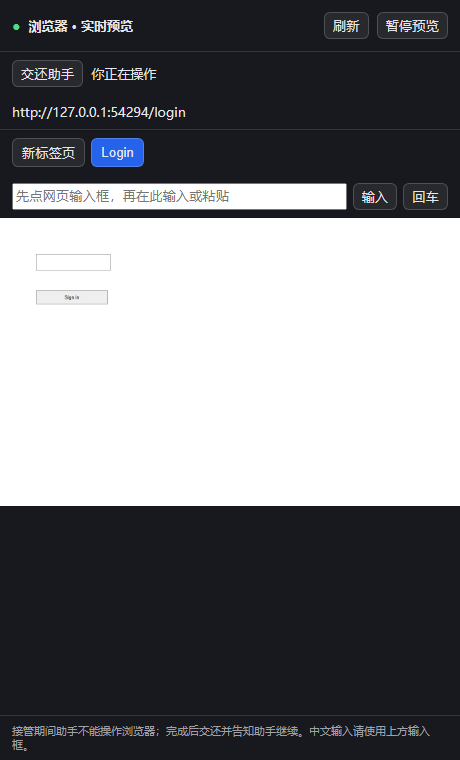
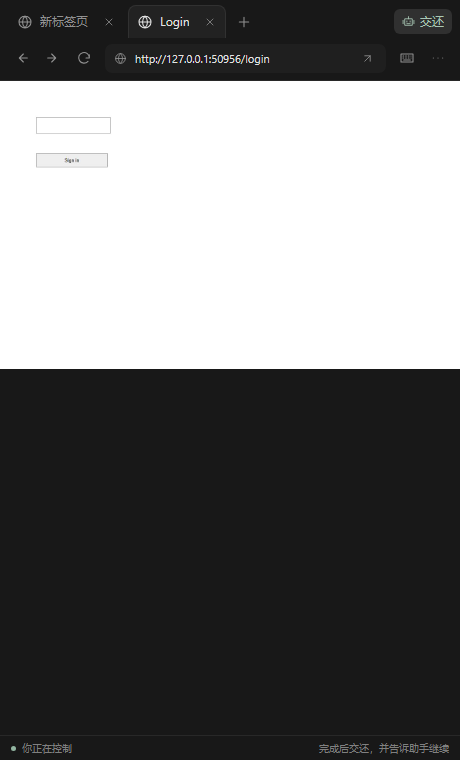
重做浏览器界面并增加地址栏与标签页导航

diff --git a/packages/browser/src/client/index.tsx b/packages/browser/src/client/index.tsx
@@ -3,21 +3,52 @@ import type { Context } from '@deepseek-ai/cordis'
 import type {} from '@deepseek-ai/dsh-client-ui-sidebar-right/client'
 import type {} from '@deepseek-ai/dsh-client-ui-renderer/client'
 import type { BrowserAction, BrowserFrame } from '../protocol.js'
+import { styles } from './style.js'
 
 export const inject = ['slots', 'sidebarRightTabs']
 const id = 'dsh-background-browser'
+const paths = {
+  globe: 'M21 12a9 9 0 1 1-18 0 9 9 0 0 1 18 0M3 12h18M12 3c5 5 5 13 0 18-5-5-5-13 0-18',
+  back: 'm14 6-6 6 6 6M8 12h12', forward: 'm10 6 6 6-6 6M4 12h12',
+  reload: 'M20 7v5h-5M20 12a8 8 0 1 0-2 5M20 7v5',
+  close: 'm6 6 12 12M6 18 18 6', plus: 'M12 5v14M5 12h14',
+  arrow: 'M7 17 17 7M7 7h10v10', more: 'M5 12h.01M12 12h.01M19 12h.01',
+  keyboard: 'M3 6h18v12H3zM6 9h1m3 0h1m3 0h1m3 0h.01M6 12h1m3 0h1m3 0h1m3 0h.01M7 15h10',
+  hand: 'M8 12V6a1.5 1.5 0 0 1 3 0v5-7a1.5 1.5 0 0 1 3 0v7-5a1.5 1.5 0 0 1 3 0v6-3a1.5 1.5 0 0 1 3 0v6c0 4-2 6-6 6h-1c-2 0-3-1-4-2l-5-6c-1-2 1-3 2-2l2 2',
+  bot: 'M5 7h14v12H5zM12 3v4M9 11v2m6-2v2M9 16h6M2 10v6m20-6v6',
+  expand: 'M8 3H3v5m13-5h5v5M3 16v5h5m13-5v5h-5',
+  pause: 'M8 5v14M16 5v14', play: 'm8 5 11 7-11 7z',
+  fit: 'M3 8V3h5m8 0h5v5M3 16v5h5m13-5v5h-5M8 12h8',
+} as const
+function Icon({ name }: { name: keyof typeof paths }) {
+  return <svg viewBox="0 0 24 24" fill="none" stroke="currentColor" strokeWidth="1.6" strokeLinecap="round" strokeLinejoin="round" aria-hidden="true"><path d={paths[name]} /></svg>
+}
 
 export function BrowserPanel({ browserSessionId }: { browserSessionId: string }) {
   const [input, setInput] = useState('')
   const [pending, setPending] = useState(0)
-  const tail = useRef(Promise.resolve())
-  const session = useRef(browserSessionId)
-  session.current = browserSessionId
   const [frame, setFrame] = useState<BrowserFrame>()
   const [error, setError] = useState('')
   const [paused, setPaused] = useState(false)
   const [refresh, setRefresh] = useState(0)
-  useEffect(() => { setFrame(undefined); setError(''); setInput('') }, [browserSessionId])
+  const [menu, setMenu] = useState(false)
+  const [inputOpen, setInputOpen] = useState(false)
+  const [originalSize, setOriginalSize] = useState(false)
+  const [address, setAddress] = useState('')
+  const [editingAddress, setEditingAddress] = useState(false)
+  const tail = useRef(Promise.resolve())
+  const session = useRef(browserSessionId)
+  const panel = useRef<HTMLElement>(null)
+  session.current = browserSessionId
+  const manual = frame?.manual === true
+  const active = frame?.tabs.find(tab => tab.index === frame.selected)
+  const blank = !active || active.url === 'about:blank'
+  const ready = frame?.status === 'ready'
+  useEffect(() => {
+    setFrame(undefined); setError(''); setInput(''); setInputOpen(false); setMenu(false); setAddress(''); setEditingAddress(false); setPaused(false)
+  }, [browserSessionId])
+  useEffect(() => { if (!editingAddress) setAddress(active?.url === 'about:blank' ? '' : active?.url ?? '') }, [active?.url, editingAddress])
+  useEffect(() => { if (!manual) { setInputOpen(false); setInput('') } }, [manual])
   useEffect(() => {
     if (paused) return
     const controller = new AbortController()
@@ -54,34 +85,57 @@ export function BrowserPanel({ browserSessionId }: { browserSessionId: string })
       if (session.current === owner) { setError(''); setRefresh(n => n + 1) }
     }).catch(error => { if (session.current === owner) setError(error.message) }).finally(() => setPending(n => n - 1))
   }
-  const manual = frame?.manual === true
-  const active = frame?.tabs.find(tab => tab.index === frame.selected)
-  return <section style={{ height: '100%', display: 'flex', flexDirection: 'column', background: 'var(--bg-primary, #17191e)', color: 'var(--text-primary, #e5e7eb)', font: '13px system-ui' }} aria-label="后台浏览器">
-    <header style={{ display: 'flex', gap: 8, alignItems: 'center', padding: 12, borderBottom: '1px solid #ffffff20' }}>
-      <span style={{ color: paused ? '#a1a1aa' : '#4ade80' }}>●</span>
-      <strong style={{ flex: 1 }}>浏览器 · {paused ? '预览已暂停' : '实时预览'}</strong>
-      <button type="button" onClick={() => setRefresh(value => value + 1)} disabled={paused} title="刷新画面">刷新</button>
-      <button type="button" disabled={manual} onClick={() => setPaused(value => !value)}>{paused ? '继续预览' : '暂停预览'}</button>
-    </header>
-    <div style={{ padding: '8px 12px' }}>
-      <button type="button" disabled={!frame?.image || pending > 0} onClick={() => { setPaused(false); send({ type: manual ? 'release' : 'take' }) }}>{manual ? '交还助手' : '接管浏览器'}</button>
-      <span style={{ marginLeft: 8 }}>{pending ? '操作中…' : manual ? '你正在操作' : '助手控制中'}</span>
+  const pageAction = (type: 'back' | 'forward' | 'reload') => { if (active) send({ type, pageId: active.id }) }
+  function navigate() {
+    if (!active || !address.trim()) return
+    const value = address.trim()
+    try {
+      const url = new URL(/^[a-z][a-z0-9+.-]*:/i.test(value) && !/^[^/]+:\d+(?:\/|$)/.test(value) ? value : `https://${value}`)
+      if (!['http:', 'https:'].includes(url.protocol)) throw new Error('请输入 http 或 https 网址')
+      send({ type: 'navigate', pageId: active.id, url: url.href })
+      setEditingAddress(false)
+    } catch { setError('请输入有效的网址，例如 https://example.com') }
+  }
+  return <section ref={panel} className="dsh-browser" aria-label="后台浏览器" onKeyDown={event => { if (event.key === 'Escape' && (menu || inputOpen)) { setMenu(false); setInputOpen(false); setInput(''); event.stopPropagation() } }}>
+    <style>{styles}</style>
+    <div className="bb-tabs">
+      <div className="bb-tablist" role="tablist" aria-label="网页标签页">
+        {frame?.tabs.length ? frame.tabs.map(tab => <div className={`bb-tab ${tab.index === frame.selected ? 'is-active' : ''}`} key={tab.id}>
+          <button className="bb-tab-select" role="tab" aria-selected={tab.index === frame.selected} disabled={!manual} title={tab.url} onClick={() => { setInputOpen(false); send({ type: 'tab', pageId: tab.id }) }}><Icon name="globe" /><span>{tab.title || '新标签页'}</span></button>
+          <button className="bb-icon" title="关闭标签页" aria-label={`关闭标签页：${tab.title || '新标签页'}`} disabled={!manual || pending > 0} onClick={() => send({ type: 'close', pageId: tab.id })}><Icon name="close" /></button>
+        </div>) : <div className="bb-tab is-active"><span className="bb-tab-select"><Icon name="globe" /><span>新标签页</span></span></div>}
+      </div>
+      <button className="bb-icon" title={manual ? '新建标签页' : '接管后可新建标签页'} aria-label="新建标签页" disabled={!manual || pending > 0} onClick={() => send({ type: 'new' })}><Icon name="plus" /></button>
+      <span className="bb-tabs-spacer" />
+      <button className={`bb-control ${manual ? 'is-manual' : ''}`} aria-label={manual ? '交还助手' : '接管浏览器'} title={manual ? '交还控制权，然后告诉助手继续' : '接管浏览器以登录或操作网页'} disabled={!ready || pending > 0} onClick={() => { setPaused(false); send({ type: manual ? 'release' : 'take' }) }}><Icon name={manual ? 'bot' : 'hand'} />{manual ? '交还' : '接管'}</button>
     </div>
-    <div style={{ padding: '9px 12px', overflow: 'hidden', textOverflow: 'ellipsis', whiteSpace: 'nowrap', borderBottom: '1px solid #ffffff20' }} title={active?.url}>
-      {active?.url ?? '等待当前会话使用浏览器'}
+    <div className="bb-toolbar">
+      <button className="bb-icon" title="后退" aria-label="后退" disabled={!manual || !active || pending > 0} onClick={() => pageAction('back')}><Icon name="back" /></button>
+      <button className="bb-icon" title="前进" aria-label="前进" disabled={!manual || !active || pending > 0} onClick={() => pageAction('forward')}><Icon name="forward" /></button>
+      <button className="bb-icon" title={manual ? '重新加载网页' : '刷新画面'} aria-label={manual ? '重新加载网页' : '刷新画面'} disabled={manual && (!active || pending > 0)} onClick={() => { if (manual) pageAction('reload'); else { setPaused(false); setRefresh(n => n + 1) } }}><Icon name="reload" /></button>
+      <form className="bb-address" onSubmit={event => { event.preventDefault(); navigate() }}>
+        <Icon name="globe" />
+        <input aria-label="网址" title={manual ? '输入网址并按回车' : '接管浏览器后可输入网址'} placeholder="输入网址" value={address} readOnly={!manual || !active} onFocus={event => { setEditingAddress(true); event.currentTarget.select() }} onBlur={event => { if (!(event.relatedTarget instanceof Node) || !event.currentTarget.parentElement?.contains(event.relatedTarget)) setEditingAddress(false) }} onChange={event => setAddress(event.target.value)} />
+        {manual && <button className="bb-icon" type="submit" aria-label="打开网址" title="打开网址" disabled={!active || !address.trim() || pending > 0}><Icon name="arrow" /></button>}
+      </form>
+      {manual && <button className="bb-icon" title="输入文本或密码" aria-label="输入文本或密码" aria-expanded={inputOpen} onClick={() => { setInputOpen(v => !v); setMenu(false); setInput('') }}><Icon name="keyboard" /></button>}
+      <button className="bb-icon" title="更多选项" aria-label="更多选项" aria-expanded={menu} onClick={() => { setMenu(v => !v); setInputOpen(false); setInput('') }}><Icon name="more" /></button>
     </div>
-    {!!frame?.tabs.length && <div style={{ display: 'flex', gap: 6, overflowX: 'auto', padding: '8px 12px' }}>
-      {frame.tabs.map(tab => <button type="button" disabled={!manual} onClick={() => send({ type: 'tab', pageId: tab.id })} key={tab.id} title={tab.url} style={{ padding: '5px 9px', borderRadius: 6, whiteSpace: 'nowrap', background: tab.index === frame.selected ? '#2563eb' : '#ffffff12' }}>{tab.title || '新标签页'}</button>)}
+    {menu && <div className="bb-menu" aria-label="浏览器选项">
+      <button disabled={manual} onClick={() => { setPaused(v => !v); setMenu(false) }}><Icon name={paused ? 'play' : 'pause'} />{paused ? '继续预览' : '暂停预览'}</button>
+      <button onClick={() => { setOriginalSize(v => !v); setMenu(false) }}><Icon name="fit" />{originalSize ? '适应面板宽度' : '网页原始大小'}</button>
+      <button onClick={() => { setMenu(false); const operation = document.fullscreenElement ? document.exitFullscreen() : panel.current?.requestFullscreen(); void operation?.catch(() => setError('当前宿主不支持全屏，请拖宽侧栏查看')) }}><Icon name="expand" />全屏查看</button>
     </div>}
-    {manual && <form style={{ display: 'flex', gap: 6, padding: '8px 12px' }} onSubmit={event => { event.preventDefault(); if (active && input) { send({ type: 'text', pageId: active.id, text: input }); setInput('') } }}>
-      <input type="password" autoComplete="off" aria-label="输入到网页" placeholder="先点网页输入框，再在此输入或粘贴" value={input} onChange={event => setInput(event.target.value)} style={{ minWidth: 0, flex: 1 }} />
-      <button type="submit" disabled={!input}>输入</button>
-      <button type="button" onClick={() => active && send({ type: 'key', pageId: active.id, key: 'Enter' })}>回车</button>
+    {manual && inputOpen && <form className="bb-input-panel" onSubmit={event => { event.preventDefault(); if (active && input) { send({ type: 'text', pageId: active.id, text: input }); setInput('') } }}>
+      <div className="bb-input-heading">输入到网页<button type="button" className="bb-icon" aria-label="关闭输入面板" onClick={() => { setInputOpen(false); setInput('') }}><Icon name="close" /></button></div>
+      <p>先点击网页输入框，再输入或粘贴内容。<br />内容只发送到网页，不会进入聊天。</p>
+      <div className="bb-input-row"><input type="password" autoComplete="off" aria-label="输入到网页" placeholder="支持中文、账号和密码" value={input} onChange={event => setInput(event.target.value)} /><button type="submit" disabled={!input || !active}>输入</button></div>
+      <div className="bb-input-actions"><button type="button" disabled={!active} onClick={() => active && send({ type: 'key', pageId: active.id, key: 'Tab' })}>下一项 ⇥</button><button type="button" disabled={!active} onClick={() => active && send({ type: 'key', pageId: active.id, key: 'Enter' })}>回车 ↵</button></div>
     </form>}
-    {error && <div role="alert" style={{ padding: 12, color: '#fca5a5' }}>画面暂不可用：{error}</div>}
-    <div style={{ flex: 1, minHeight: 0, overflow: 'auto', display: 'grid', alignContent: 'start' }}>
-      {frame?.image ? <img src={frame.image} alt={active?.title ? `网页预览：${active.title}` : '当前网页预览'} style={{ width: '100%', display: 'block', cursor: manual ? 'crosshair' : 'default' }} draggable={false} tabIndex={manual ? 0 : -1}
-        onClick={event => { if (!manual || !active) return; event.currentTarget.focus(); const r = event.currentTarget.getBoundingClientRect(); send({ type: 'click', pageId: active.id, x: (event.clientX - r.left) / r.width, y: (event.clientY - r.top) / r.height }) }}
+    {error && <div className="bb-error" role="alert"><span>{error}</span><button className="bb-icon" aria-label="关闭提示" onClick={() => setError('')}><Icon name="close" /></button></div>}
+    <div className={`bb-canvas ${manual ? 'is-manual' : ''} ${originalSize ? 'is-original' : ''}`}>
+      {frame?.image && !blank ? <img src={frame.image} alt={active?.title ? `网页预览：${active.title}` : '当前网页预览'} draggable={false} tabIndex={manual ? 0 : -1}
+        onClick={event => { if (!manual || !active) return; setInputOpen(false); setInput(''); setMenu(false); event.currentTarget.focus(); const r = event.currentTarget.getBoundingClientRect(); send({ type: 'click', pageId: active.id, x: (event.clientX - r.left) / r.width, y: (event.clientY - r.top) / r.height }) }}
         onWheel={event => { if (manual && active) send({ type: 'scroll', pageId: active.id, dx: Math.max(-10000, Math.min(10000, event.deltaX)), dy: Math.max(-10000, Math.min(10000, event.deltaY)) }) }}
         onPaste={event => { if (manual && active) { event.preventDefault(); send({ type: 'text', pageId: active.id, text: event.clipboardData.getData('text') }) } }}
         onKeyDown={event => {
@@ -92,10 +146,9 @@ export function BrowserPanel({ browserSessionId }: { browserSessionId: string })
           else if (key === 'Tab' && event.shiftKey) key = 'Shift+Tab'
           if (['Enter', 'Tab', 'Shift+Tab', 'Backspace', 'Delete', 'Escape', 'ArrowLeft', 'ArrowRight', 'ArrowUp', 'ArrowDown', 'Home', 'End', 'ControlOrMeta+A'].includes(key)) { event.preventDefault(); send({ type: 'key', pageId: active.id, key }) }
           else if (key.length === 1) { event.preventDefault(); send({ type: 'text', pageId: active.id, text: key }) }
-        }} />
-        : <div style={{ padding: '48px 24px', textAlign: 'center', color: '#a1a1aa', lineHeight: 1.8 }}>让助手打开网页后，画面会显示在这里。<br />关闭此面板不会关闭后台浏览器。</div>}
+        }} /> : <div className="bb-empty"><Icon name="globe" /><strong>{ready ? '开始浏览' : '等待浏览'}</strong><p>{ready ? manual ? '输入网址，开始浏览网页。' : '让助手打开网页，或接管后输入网址。' : '让助手打开网页后，画面会显示在这里。'}</p></div>}
     </div>
-    <footer style={{ padding: '8px 12px', color: '#a1a1aa', borderTop: '1px solid #ffffff20', fontSize: 11 }}>{manual ? '接管期间助手不能操作浏览器；完成后交还并告知助手继续。中文输入请使用上方输入框。' : '跟随当前会话 · 登录时点击「接管浏览器」'}</footer>
+    <footer className="bb-status"><span className="bb-status-label"><i className={`bb-dot ${ready && !paused ? 'is-live' : ''}`} />{pending ? '正在操作' : manual ? '你正在控制' : paused ? '预览已暂停' : ready ? '助手控制中' : '等待助手'}</span><span className="bb-status-hint">{manual ? '完成后交还，并告诉助手继续' : '登录时可接管浏览器'}</span></footer>
   </section>
 }
 

diff --git a/packages/browser/src/client/style.ts b/packages/browser/src/client/style.ts
@@ -1,0 +1,61 @@
+export const styles = `
+.dsh-browser{--bb-bg:#181818;--bb-surface:#222222;--bb-hover:#303030;--bb-border:#ffffff12;--bb-text:#e3e3e3;--bb-muted:#919191;--bb-accent:#a9c7b5;height:100%;min-height:0;min-width:0;display:flex;flex-direction:column;background:var(--bb-bg);color:var(--bb-text);font:12px/1.45 -apple-system,BlinkMacSystemFont,"Segoe UI","Microsoft YaHei",sans-serif;color-scheme:dark;position:relative;isolation:isolate;overflow:hidden}
+.dsh-browser *{box-sizing:border-box}
+.dsh-browser button,.dsh-browser input{font:inherit;color:inherit}
+.dsh-browser button{border:0;background:none;cursor:pointer;padding:0;flex-shrink:0}
+.dsh-browser button:disabled{opacity:.3;cursor:default}
+.dsh-browser button:focus-visible,.dsh-browser input:focus-visible{outline:2px solid #829e91;outline-offset:-2px}
+.dsh-browser svg{width:16px;height:16px;display:block;flex-shrink:0}
+.bb-icon{width:28px;height:28px;display:inline-flex;align-items:center;justify-content:center;border-radius:6px;color:var(--bb-muted)!important}
+.bb-icon:hover:not(:disabled),.bb-icon[aria-expanded=true]{background:var(--bb-hover);color:var(--bb-text)!important}
+.bb-tabs{height:38px;padding:5px 8px 0;display:flex;gap:4px;align-items:center;flex-shrink:0}
+.bb-tablist{min-width:0;display:flex;gap:3px;overflow:auto;scrollbar-width:none;align-self:stretch}
+.bb-tablist::-webkit-scrollbar{display:none}
+.bb-tab{display:flex;align-items:center;gap:2px;border-radius:8px 8px 0 0;min-width:88px;max-width:180px;color:var(--bb-muted);border:1px solid transparent;border-bottom:0}
+.bb-tab.is-active{background:var(--bb-surface);color:var(--bb-text);border-color:var(--bb-border)}
+.bb-tab-select{display:flex;align-items:center;gap:7px;min-width:0;flex-shrink:1!important;height:30px;padding:0 8px!important;flex:1;text-align:left}
+.bb-tab-select span{overflow:hidden;white-space:nowrap;text-overflow:ellipsis}
+.bb-tab .bb-icon{width:22px;height:22px;margin-right:4px}
+.bb-tab .bb-icon svg{width:12px;height:12px}
+.bb-tabs-spacer{flex:1}
+.bb-control{display:flex;align-items:center;gap:5px;padding:4px 8px!important;border-radius:6px;white-space:nowrap;color:var(--bb-muted)!important}
+.bb-control:hover:not(:disabled){background:var(--bb-hover)}
+.bb-control.is-manual{color:var(--bb-accent)!important;background:#a9c7b510}
+.bb-control svg{width:13px;height:13px}
+.bb-toolbar{height:43px;display:flex;align-items:center;gap:3px;padding:5px 8px 7px;border-bottom:1px solid var(--bb-border);flex-shrink:0}
+.bb-address{display:flex;align-items:center;gap:6px;flex:1;min-width:0;height:29px;margin:0 4px;background:#ffffff08;border:1px solid transparent;border-radius:7px;padding:0 8px;color:var(--bb-muted)}
+.bb-address:focus-within{border-color:#ffffff26;background:var(--bb-surface)}
+.bb-address>svg{width:13px;height:13px}
+.bb-address input{background:none;border:0;outline:0!important;min-width:0;width:100%;height:100%;font-size:11px;color:var(--bb-text)}
+.bb-address input::placeholder{color:#777}
+.bb-address button{width:20px;height:22px}
+.bb-address button svg{width:13px;height:13px}
+.bb-canvas{min-height:0;flex:1;overflow:auto;position:relative;background:var(--bb-bg);scrollbar-width:thin;scrollbar-color:#4a4a4a transparent}
+.bb-canvas img{display:block;width:100%;max-width:none;outline-offset:-2px}
+.bb-canvas.is-manual img{cursor:default}
+.bb-canvas.is-original img{width:1280px}
+.bb-empty{height:100%;min-height:210px;display:flex;align-items:center;justify-content:center;flex-direction:column;padding:32px;text-align:center;color:var(--bb-muted);gap:10px}
+.bb-empty>svg{width:29px;height:29px;stroke-width:1.35;margin-bottom:4px;color:#888}
+.bb-empty strong{font-size:14px;font-weight:500;color:#d5d5d5}
+.bb-empty p{margin:0;font-size:12px;line-height:1.8;max-width:260px}
+.bb-status{display:flex;justify-content:space-between;align-items:center;gap:10px;min-height:25px;padding:4px 11px;color:#808080;font-size:10px;flex-shrink:0;border-top:1px solid var(--bb-border)}
+.bb-status-label{display:flex;gap:6px;align-items:center;min-width:0}
+.bb-dot{width:5px;height:5px;border-radius:50%;background:#777;flex-shrink:0}
+.bb-dot.is-live{background:#92b5a1}
+.bb-status-hint{overflow:hidden;white-space:nowrap;text-overflow:ellipsis}
+.bb-error{display:flex;align-items:center;gap:8px;padding:8px 12px;color:#e5b1a7;background:#ae514810;font-size:11px;border-bottom:1px solid #ae514820;overflow-wrap:anywhere}
+.bb-error span{flex:1;min-width:0}
+.bb-menu{position:absolute;z-index:3;right:8px;top:76px;width:190px;padding:5px;background:#272727;border:1px solid #ffffff18;border-radius:9px;box-shadow:0 12px 32px #0006}
+.bb-menu button{display:flex;align-items:center;gap:9px;width:100%;text-align:left;padding:8px!important;border-radius:5px;color:#ccc}
+.bb-menu button:hover:not(:disabled){background:#ffffff09}
+.bb-input-panel{position:absolute;z-index:4;right:8px;top:76px;width:min(330px,calc(100% - 16px));padding:12px;background:#272727;border:1px solid #ffffff18;border-radius:10px;box-shadow:0 12px 32px #0006}
+.bb-input-heading{display:flex;align-items:center;justify-content:space-between;font-size:12px;font-weight:500;margin-bottom:3px}
+.bb-input-panel p{margin:0 0 12px;color:#999;font-size:11px;line-height:1.6}
+.bb-input-row{display:flex;gap:6px}
+.bb-input-row input{flex:1;min-width:0;width:100%;border:1px solid #ffffff16;background:#191919;border-radius:6px;padding:7px 9px}
+.bb-input-row button{padding:6px 10px!important;background:#dfdfdf;color:#202020;border-radius:6px;font-weight:500}
+.bb-input-actions{display:flex;gap:4px;margin-top:8px;justify-content:flex-end}
+.bb-input-actions button{padding:4px 8px!important;color:#aaa;border-radius:5px}
+.bb-input-actions button:hover{background:#ffffff0a}
+@container (max-width:360px){.bb-status-hint{display:none}}
+`;

diff --git a/packages/browser/src/browser-session.ts b/packages/browser/src/browser-session.ts
@@ -43,7 +43,7 @@ export class BrowserSession {
 
   private async capture(): Promise<BrowserFrame> {
     const pages = this.context.pages().filter(page => !page.isClosed())
-    if (!pages.length) return { status: 'idle', tabs: [], selected: -1 }
+    if (!pages.length) return { status: 'ready', tabs: [], selected: -1 }
     const focused = await Promise.all(pages.map(page => page.evaluate(() => document.hasFocus()).catch(() => false)))
     const selected = focused.lastIndexOf(true) < 0 ? pages.length - 1 : focused.lastIndexOf(true)
     const tabs = await Promise.all(pages.map(async (page, index) => ({ id: this.id(page), index, title: await page.title(), url: page.url() })))
@@ -52,10 +52,21 @@ export class BrowserSession {
   }
 
   async interact(action: Exclude<BrowserAction, { type: 'take' | 'release' }>): Promise<void> {
+    if (action.type === 'new') { await (await this.context.newPage()).bringToFront(); return }
     const page = this.context.pages().find(page => this.id(page) === action.pageId && !page.isClosed())
     if (!page) throw new Error('Page is closed; refresh the browser panel')
     await page.bringToFront()
-    if (action.type === 'click') {
+    if (action.type === 'navigate') {
+      await page.goto(action.url, { waitUntil: 'domcontentloaded', timeout: 30000 })
+    } else if (action.type === 'back') {
+      await page.goBack({ waitUntil: 'domcontentloaded', timeout: 30000 })
+    } else if (action.type === 'forward') {
+      await page.goForward({ waitUntil: 'domcontentloaded', timeout: 30000 })
+    } else if (action.type === 'reload') {
+      await page.reload({ waitUntil: 'domcontentloaded', timeout: 30000 })
+    } else if (action.type === 'close') {
+      await page.close()
+    } else if (action.type === 'click') {
       const viewport = page.viewportSize()!
       await page.mouse.click(Math.min(viewport.width - 1, action.x * viewport.width), Math.min(viewport.height - 1, action.y * viewport.height))
     } else if (action.type === 'scroll') {

diff --git a/packages/browser/src/protocol.ts b/packages/browser/src/protocol.ts
@@ -12,14 +12,22 @@ export type BrowserAction =
   | { type: 'scroll'; pageId: string; dx: number; dy: number }
   | { type: 'text'; pageId: string; text: string }
   | { type: 'key'; pageId: string; key: string }
-  | { type: 'tab'; pageId: string }
+  | { type: 'tab' | 'back' | 'forward' | 'reload' | 'close'; pageId: string }
+  | { type: 'new' }
+  | { type: 'navigate'; pageId: string; url: string }
 
 export function parseAction(value: unknown): BrowserAction {
   if (!value || typeof value !== 'object') throw new Error('Invalid action')
   const a = value as Record<string, unknown>
   if (a.type === 'take' || a.type === 'release') return { type: a.type }
+  if (a.type === 'new') return { type: 'new' }
   if (typeof a.pageId !== 'string') throw new Error('Missing pageId')
-  if (a.type === 'tab') return { type: a.type, pageId: a.pageId }
+  if (a.type === 'navigate' && typeof a.url === 'string' && a.url.length <= 8192) {
+    const url = new URL(a.url)
+    if (url.protocol !== 'https:' && url.protocol !== 'http:') throw new Error('Only HTTP and HTTPS URLs are supported')
+    return { type: 'navigate', pageId: a.pageId, url: url.href }
+  }
+  if (a.type === 'tab' || a.type === 'back' || a.type === 'forward' || a.type === 'reload' || a.type === 'close') return { type: a.type, pageId: a.pageId }
   if (a.type === 'text' && typeof a.text === 'string' && a.text.length <= 10000) return { type: a.type, pageId: a.pageId, text: a.text }
   if (a.type === 'key' && typeof a.key === 'string' && ['Enter', 'Tab', 'Shift+Tab', 'Backspace', 'Delete', 'Escape', 'ArrowLeft', 'ArrowRight', 'ArrowUp', 'ArrowDown', 'Home', 'End', 'ControlOrMeta+A'].includes(a.key)) return { type: a.type, pageId: a.pageId, key: a.key }
   if (a.type === 'click' && typeof a.x === 'number' && typeof a.y === 'number' && a.x >= 0 && a.x <= 1 && a.y >= 0 && a.y <= 1) return { type: a.type, pageId: a.pageId, x: a.x, y: a.y }

diff --git a/README.md b/README.md
@@ -4,20 +4,22 @@
 
 让 DeepSeek Harness 助手直接操作隐藏的浏览器，无需手动打开 Chrome。项目采用 DSH 的 **Cordis 插件机制**，不是 DeepSeek API 客户端。
 
-当前浏览器插件版本：**0.3.1** · 目标宿主：**DSH 0.1.5-rc.2**。
+当前浏览器插件版本：**0.4.0** · 目标宿主：**DSH 0.1.5-rc.2**。
 
 ## 功能与当前状态
 
 - **后台网页操作**：导航、读取页面、点击、输入、标签页管理、JavaScript 求值和截图，复用 Playwright MCP 工具。
 - **会话隔离**：每个活动 agent 独立浏览器和 Cookie，跨轮次保留状态，卸载时清理。
-- **侧栏交互（实验性）**：在 DSH 原生右侧栏注册「浏览器」卡片，约每 750ms 刷新当前网页截图；支持人工接管、点击、输入、滚动和切换标签页。
+- **侧栏交互（实验性）**：在 DSH 原生右侧栏注册「浏览器」卡片，约每 750ms 刷新当前网页截图；支持人工接管、点击、输入、滚动和标签页管理；提供地址栏、后退、前进与刷新。
 - **桌面运行兼容处理**：MCP 子进程显式启用 Electron-as-node，并使用宿主 agent 作用域避免工具撞名。
 
-**侧栏状态说明：** 用户在 Desktop 2.0.10 上反馈 0.2.1 没有出现入口；0.2.2 已修复一条客户端发现路径的包导出缺失，并通过回归测试，但尚未确认解决该桌面环境的问题。不要将当前版本视为已完整验证的 Codex 式内置浏览器。
+**验证状态：** 侧栏交互与导航已通过真实浏览器组件集成测试；完整 Desktop 2.0.10 运行流程仍待实机验证。
 
 ## 界面截图
 
 以下为实际客户端组件在本地测试环境中的截图，不是完整桌面客户端截图。
+
+![新标签页](packages/browser/assets/empty.png)
 
 ![浏览器预览](packages/browser/assets/preview.png)
 
@@ -36,13 +38,13 @@
 
 ## 安装
 
-从 [GitHub Release 下载预构建安装包](https://github.com/YuZtArt/dsh-plugin-background-browser/releases/download/v0.3.1/dsh-plugin-background-browser-0.3.1.tgz)，或按下方步骤自行构建。**安装到桌面客户端实际使用的 profile**，并使用相同的 DSH_HOME 和用户账户。不要另外创建一个 profile 后期待它出现在现有桌面端。
+从 [GitHub Release 下载预构建安装包](https://github.com/YuZtArt/dsh-plugin-background-browser/releases/download/v0.4.0/dsh-plugin-background-browser-0.4.0.tgz)，或按下方步骤自行构建。**安装到桌面客户端实际使用的 profile**，并使用相同的 DSH_HOME 和用户账户。不要另外创建一个 profile 后期待它出现在现有桌面端。
 
 在能调用该桌面环境 DSH CLI 的 PowerShell 中：
 
 ```powershell
 $desktopProfile = '替换为当前档案名称'
-$pluginPackage = (Resolve-Path ./dsh-plugin-background-browser-0.3.1.tgz).Path
+$pluginPackage = (Resolve-Path ./dsh-plugin-background-browser-0.4.0.tgz).Path
 dsh plugin --profile $desktopProfile add $pluginPackage
 # 仅首次安装浏览器时需要；已经安装成功则跳过。
 dsh plugin --profile $desktopProfile exec dsh-browser-install
@@ -56,11 +58,13 @@ dsh plugin --profile $desktopProfile exec dsh-browser-install
 
 > 使用后台浏览器打开 https://example.com，读取页面标题并截图。
 
-查看画面时，展开原生右侧栏，点击 `＋`，在「开始」页选择「浏览器」。登录时点击「接管浏览器」，再点击网页输入框。可直接键盘输入，也可使用上方遮罩输入框输入/粘贴中文、账号或密码，点击「输入」送入网页当前焦点。
+查看画面时，展开原生右侧栏，点击 `＋`，在「开始」页选择「浏览器」。登录时点击「接管浏览器」，再点击网页输入框。可直接键盘输入；中文或密码可点击地址栏旁的键盘图标，展开输入面板后发送到网页当前焦点。
 
 接管期间助手的浏览器工具会被阻止；登录完成后点击「交还助手」，并在对话中告诉助手继续。不要把密码发到聊天里。关闭面板不会自动交还控制权，需要重新打开后交还。
 
 若只有「工作区文件」卡片，说明浏览器前端入口尚未出现在当前界面；后台工具成功并不代表前端已加载。先确认安装版本、当前 profile 和完整重启，再检查客户端加载日志。详细说明见 [浏览器插件文档](packages/browser/README.md)。
+
+「更多选项」中可暂停预览、切换网页原始大小或全屏查看。地址栏仅在接管后可导航，支持 HTTP/HTTPS 网址；暂不提供搜索和下载管理。
 
 ## 从源码构建
 

diff --git a/packages/browser/README.md b/packages/browser/README.md
@@ -4,9 +4,9 @@
 
 ## 安装
 
-插件 **0.3.1** 适配 **DSH 0.1.5-rc.2**，不需要升级到 alpha。需要 Node 22.19+ 或 24+。所有 DSH 依赖均固定为 rc.2，不混用 alpha 包；此前插件 0.1.0 是 alpha 版本用包，请改装 0.2.1。
+插件 **0.4.0** 适配 **DSH 0.1.5-rc.2**，不需要升级到 alpha。需要 Node 22.19+ 或 24+。所有 DSH 依赖均固定为 rc.2，不混用 alpha 包；此前插件 0.1.0 是 alpha 版本用包，请改装 0.2.1。
 
-推荐从 [GitHub Release](https://github.com/YuZtArt/dsh-plugin-background-browser/releases/tag/v0.3.1) 下载预构建包。
+推荐从 [GitHub Release](https://github.com/YuZtArt/dsh-plugin-background-browser/releases/tag/v0.4.0) 下载预构建包。
 
 在本项目中：
 
@@ -25,7 +25,7 @@ npm run pack:browser
 ```powershell
 # 仅新 profile 第一次执行；dump-config 不启动应用。
 dsh --profile browser-dev --from-default-profile web --dump-config
-dsh plugin --profile browser-dev add C:/path/to/dsh-plugin-background-browser-0.3.1.tgz
+dsh plugin --profile browser-dev add C:/path/to/dsh-plugin-background-browser-0.4.0.tgz
 # 在运行 DSH 的同一用户账户下安装浏览器，仅首次需要。
 dsh plugin --profile browser-dev exec dsh-browser-install
 dsh --profile browser-dev --dump-config
@@ -44,13 +44,13 @@ dsh --profile browser-dev --no-open
 
 ```powershell
 $desktopProfile = '替换为桌面客户端当前档案名'
-dsh plugin --profile $desktopProfile add C:/path/to/dsh-plugin-background-browser-0.3.1.tgz
+dsh plugin --profile $desktopProfile add C:/path/to/dsh-plugin-background-browser-0.4.0.tgz
 dsh plugin --profile $desktopProfile exec dsh-browser-install
 ```
 
 命令须使用与桌面端相同的 DSH_HOME、用户账户和兼容 Node。安装后重启桌面端 DSH 服务，在会话原生右侧栏的新增标签页/引导入口选择「浏览器」，让助手打开网页即可观看。若启用了替代原生右侧栏的扩展，需确认它仍保留原生标签页入口；尚未在用户实际安装的桌面客户端验证该组合。
 
-面板显示当前网址、标签页和约每 750ms 更新的截图，提供暂停/继续和刷新。0.3.0 支持接管后通过截图坐标操作同一个浏览器，包括点击、键盘输入、粘贴、滚动和标签页切换。收起或关闭面板不终止后台任务，切换会话后跟随对应浏览器。登录时点击「接管浏览器」，完成后点击「交还助手」并通知助手继续；关闭面板不会自动交还控制权。中文及密码可通过上方遮罩输入框输入到网页当前焦点，输入内容不进入聊天工具参数。第三方验证码兼容性仍取决于网站；不支持文件上传、拖拽或系统通行密钥。
+面板显示当前网址、标签页和约每 750ms 更新的截图，提供暂停/继续和刷新。0.3.0 支持接管后通过截图坐标操作同一个浏览器，包括点击、键盘输入、粘贴、滚动和标签页切换。收起或关闭面板不终止后台任务，切换会话后跟随对应浏览器。登录时点击「接管浏览器」，完成后点击「交还助手」并通知助手继续；关闭面板不会自动交还控制权。中文及密码可通过工具栏键盘图标展开的输入框输入到网页当前焦点，输入内容不进入聊天工具参数。第三方验证码兼容性仍取决于网站；不支持文件上传、拖拽或系统通行密钥。
 
 ## 配置
 
@@ -120,3 +120,7 @@ MCP 直接挂载在宿主提供的 `agent.ctx` 子生命周期中，不再通过
 ## 许可证
 
 [MIT](LICENSE)。上游依赖保留各自许可证。
+
+## 0.4.0 浏览器界面
+
+采用紧凑深色标签栏、地址栏与图标工具栏。接管后支持网址导航、后退、前进、刷新、新建和关闭标签页。键盘图标按需展开中文/密码输入；更多菜单提供暂停预览、原始大小和全屏。空白页显示开始浏览提示。

diff --git a/CHANGELOG.md b/CHANGELOG.md
@@ -1,5 +1,12 @@
 # 版本变更
 
+## 0.4.0
+
+- 重做紧凑深色浏览器界面：标签栏、地址栏、图标工具栏与新标签页。
+- 新增网址导航、后退/前进、刷新、新建/关闭标签页。
+- 输入面板与预览选项按需展开，增加原始大小和全屏查看。
+- 验证导航历史、标签页生命周期、人工登录及窄侧栏布局。
+
 ## 0.3.1
 
 - 补充 MIT 许可证、仓库元数据、截图声明与 Release 安装链接。
